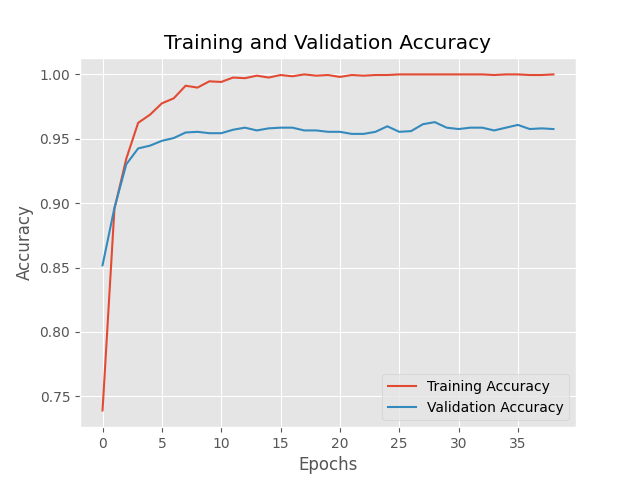
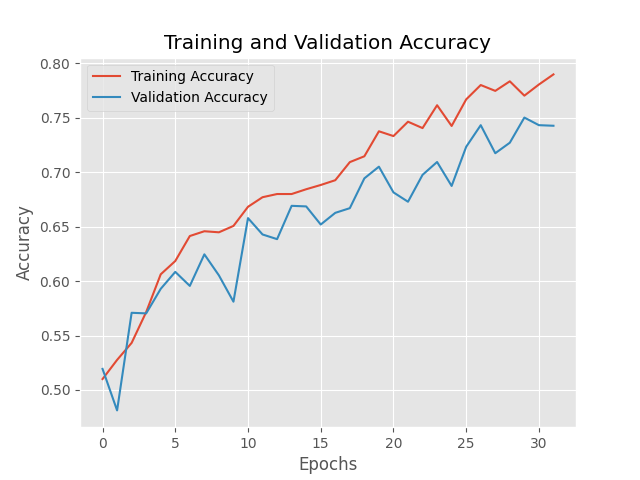
trainstats for resnet50

diff --git a/main.py b/main.py
@@ -79,7 +79,7 @@ def main():
     train_data, test_data = dataset.get_data(64)
 
     device = ut.get_device()
-    model = FinetuneResnet50(2, pretrained=True)
+    model = FinetuneResnet50(2, pretrained=False)
 
     # model = ResNet(3,16, num_res_blocks=8)
     model.to(device)
@@ -92,12 +92,7 @@ def main():
     ut.plot_training_stats(training_stats)
 
     torch.save(model.state_dict(), 'models/model.pt')
-    ut.save_training_stats(training_stats, 'Resnet50-transfer.csv')
-
-    cam_extractor = SmoothGradCAMpp(model)
-
-    img = train_data[0]
-    plt.imshow(np.asarray(img))
+    ut.save_training_stats(training_stats, 'Resnet50-no-transfer.csv')
 
 
 if __name__ == "__main__":
